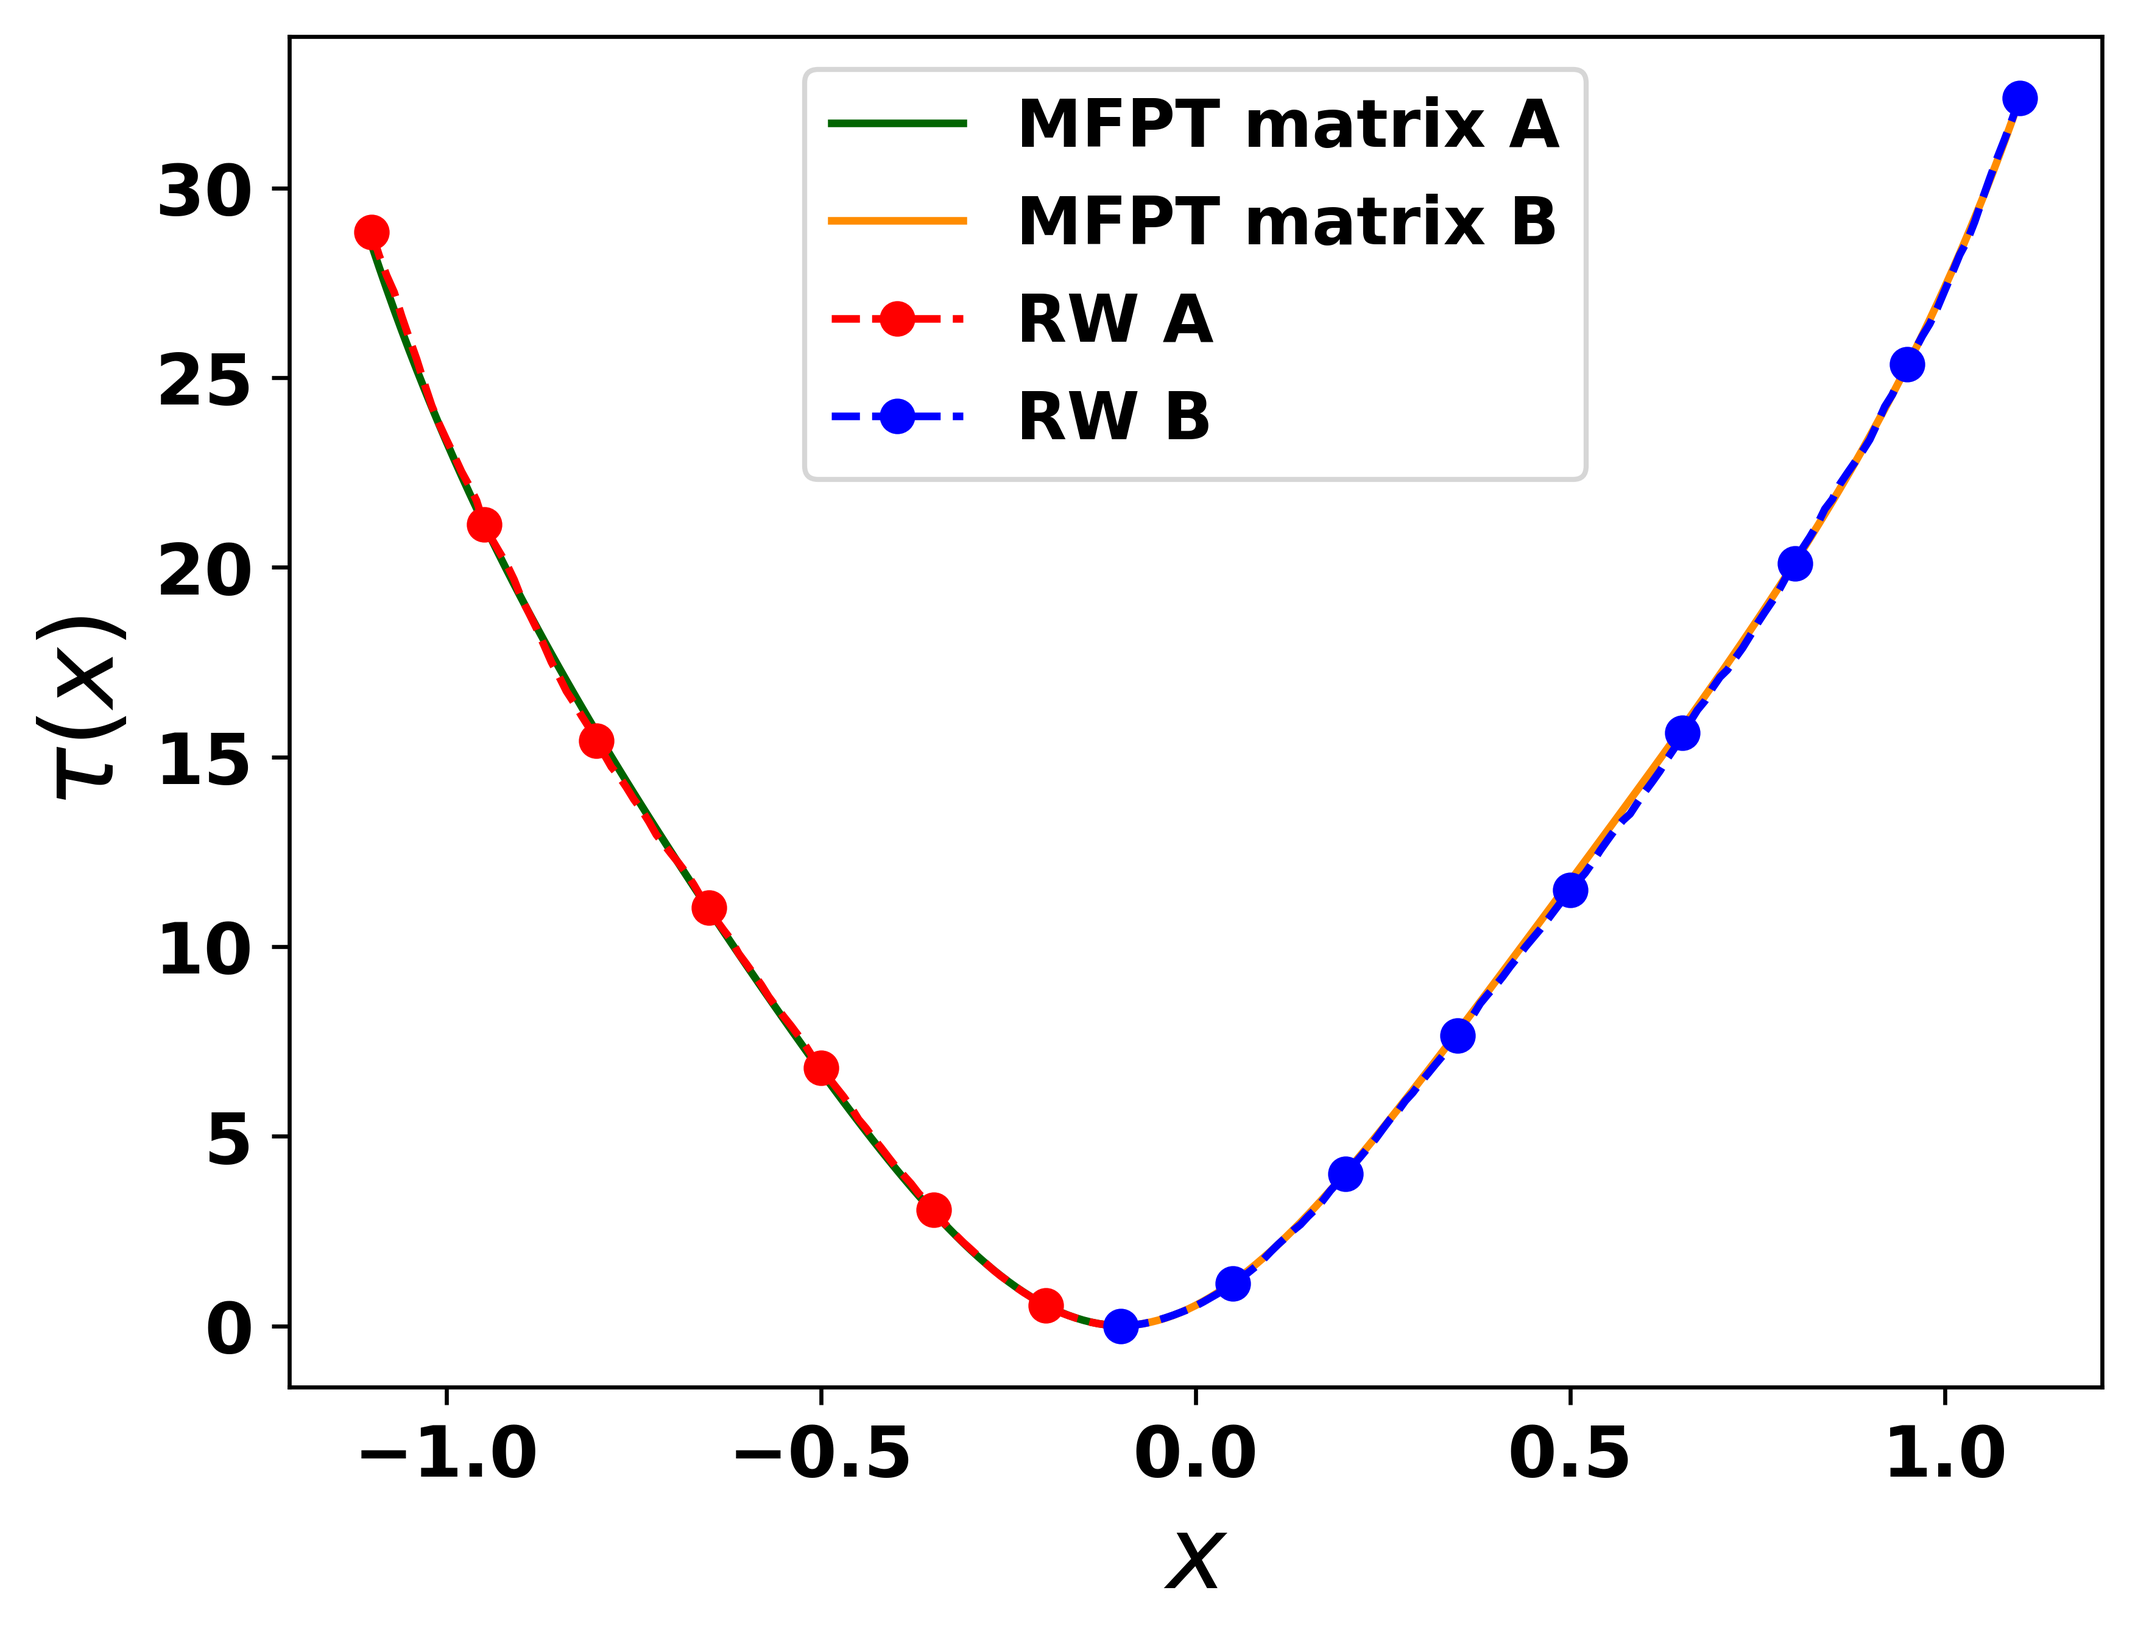
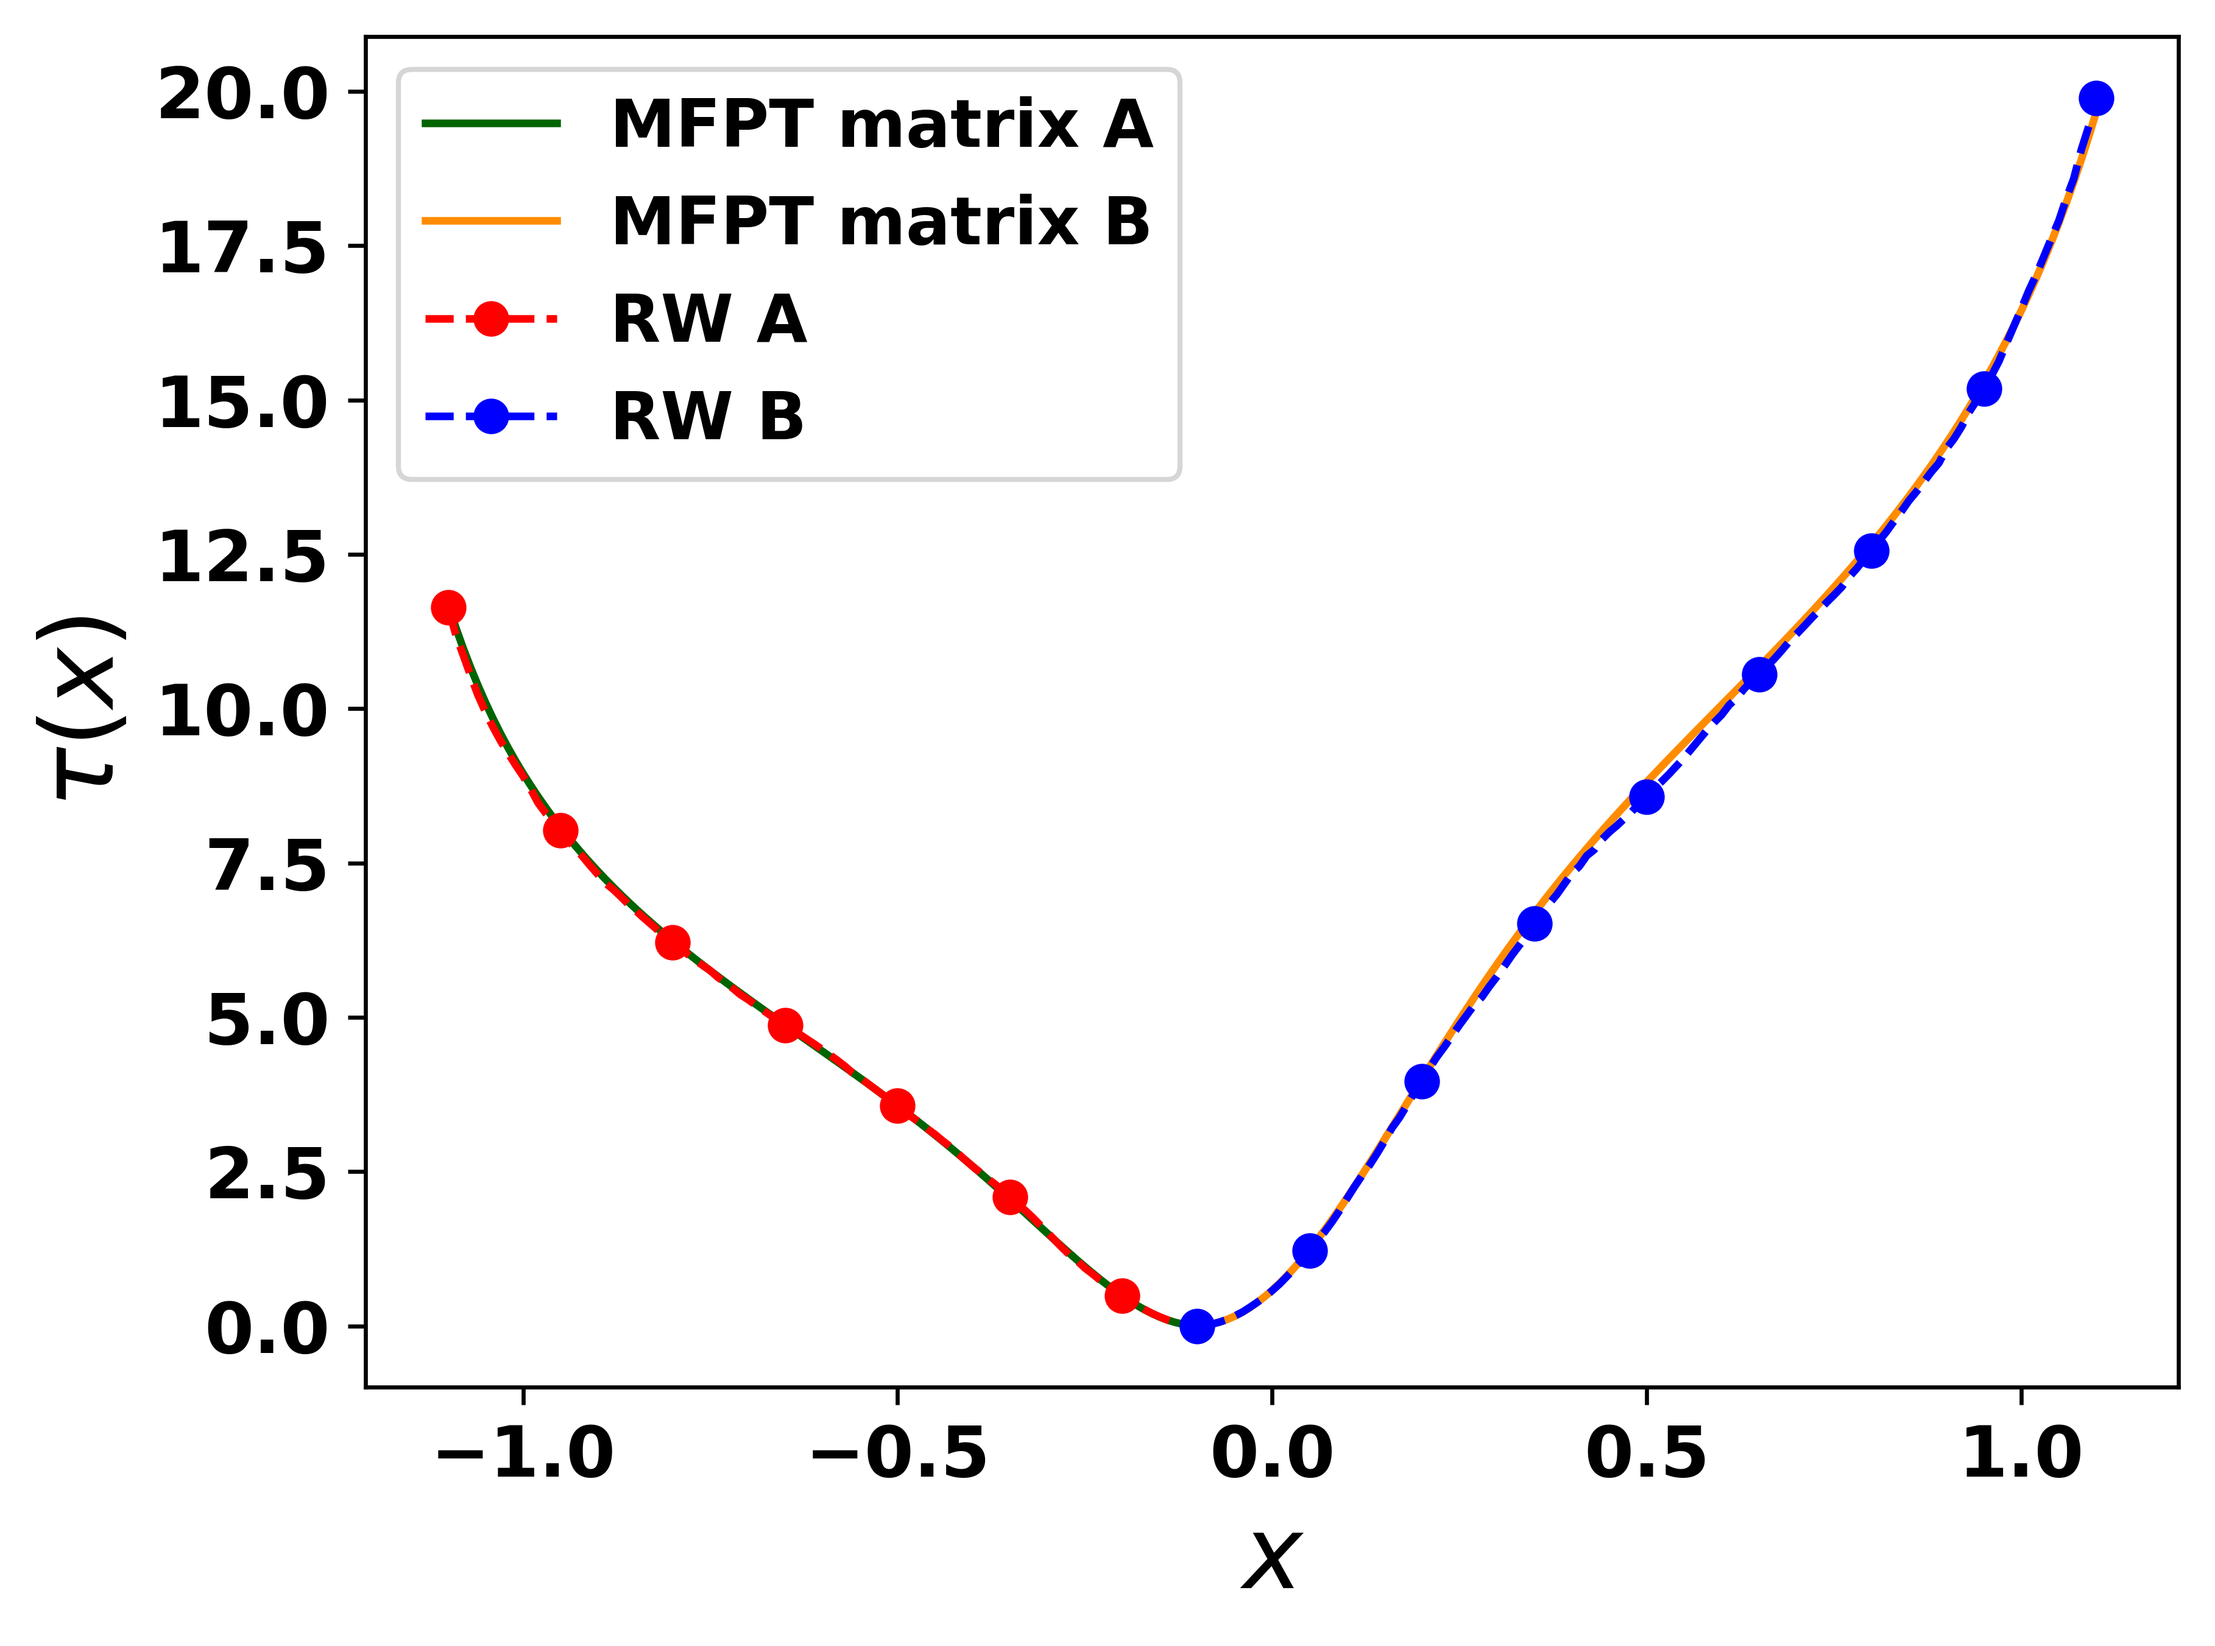
Add plot script and nicer plots for regular top-start method (medium barrier RW)

diff --git a/Top_start_method/Random_walk_Model/Regular_version/regular_top_start_reconst_plot.py b/Top_start_method/Random_walk_Model/Regular_version/regular_top_start_reconst_plot.py
@@ -5,8 +5,8 @@ from scipy.integrate import quad
 from scipy.interpolate import interp1d, PchipInterpolator, CubicSpline
 
 # Define the double-well potential using two Gaussian functions
-def double_gaussian_potential(x, A1=3, mu1=-1, sigma1=0.5, A2=4, mu2=1, sigma2=0.6):
-# def double_gaussian_potential(x, A1=12, mu1=-1, sigma1=0.5, A2=10, mu2=1, sigma2=0.6):
+# def double_gaussian_potential(x, A1=3, mu1=-1, sigma1=0.5, A2=4, mu2=1, sigma2=0.6):
+def double_gaussian_potential(x, A1=12, mu1=-1, sigma1=0.5, A2=10, mu2=1, sigma2=0.6):
 # def double_gaussian_potential(x, A1=30, mu1=-1, sigma1=0.5, A2=25, mu2=1, sigma2=0.6):
     V1 = A1 * np.exp(-((x - mu1)**2) / (2 * sigma1**2))
     V2 = A2 * np.exp(-((x - mu2)**2) / (2 * sigma2**2))
